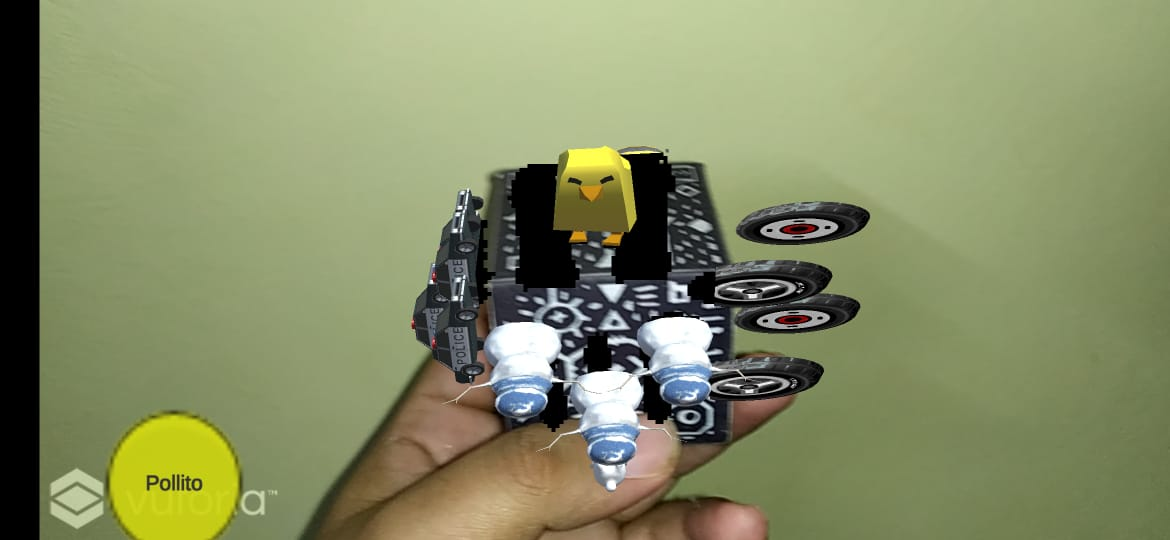
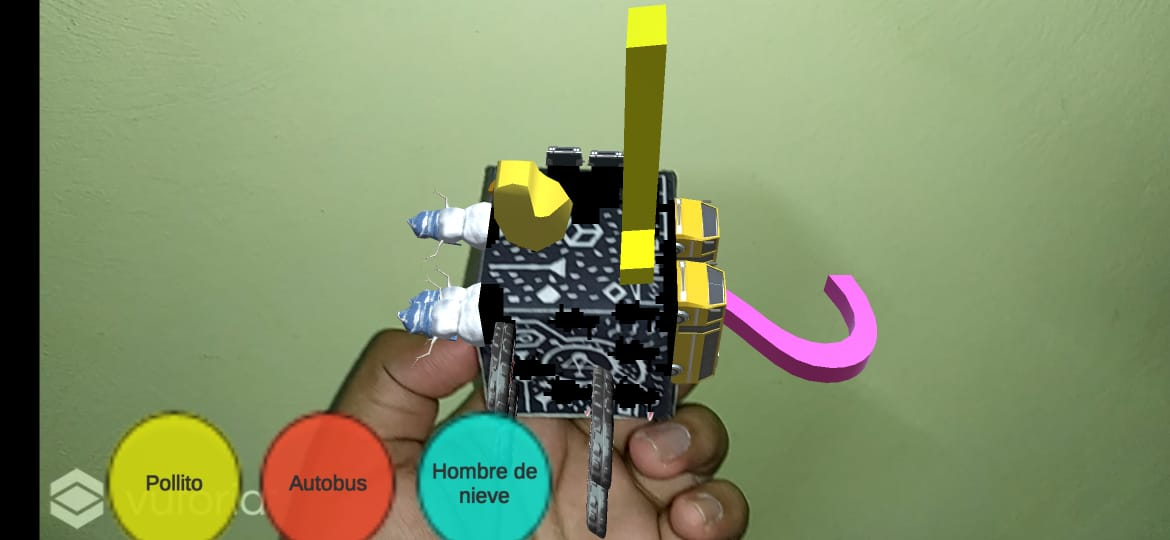
agregado numericube
gg

Changed region(s): [[0.2154, 0.0, 0.7692, 1.0]]

diff --git a/proyectos/numeriCube/index.html b/proyectos/numeriCube/index.html
@@ -112,21 +112,21 @@
 		<div id="fh5co-work">
 			<div class="row">
 				<div class="col-md-8">
-					<a href="/images/proyectos/scriptMCD/scriptMCD.png" class="image-popup img-portfolio-detail">
-						<img src="/images/proyectos/scriptMCD/scriptMCD.png" alt="Free HTML5 Template by FreeHTML5.co" class="img-responsive">
+					<a href="/images/proyectos/numeriCube/numericube1.jpeg" class="image-popup img-portfolio-detail">
+						<img src="/images/proyectos/numeriCube/numericube1.jpeg" alt="Free HTML5 Template by FreeHTML5.co" class="img-responsive">
 					</a>
-					<a href="/images/proyectos/scriptMCD/mcd2.png" class="image-popup img-portfolio-detail">
-						<img src="/images/proyectos/scriptMCD/mcd2.png" alt="Free HTML5 Template by FreeHTML5.co" class="img-responsive">
+					<a href="/images/proyectos/numeriCube/numericube2.jpeg" class="image-popup img-portfolio-detail">
+						<img src="/images/proyectos/numeriCube/numericube2.jpeg" alt="Free HTML5 Template by FreeHTML5.co" class="img-responsive">
 					</a>
-					<a href="/images/proyectos/scriptMCD/mcd3.png" class="image-popup img-portfolio-detail">
-						<img src="/images/proyectos/scriptMCD/mcd3.png" alt="Free HTML5 Template by FreeHTML5.co" class="img-responsive">
+					<a href="/images/proyectos/numeriCube/numericube3.jpeg" class="image-popup img-portfolio-detail">
+						<img src="/images/proyectos/numeriCube/numericube3.jpeg" alt="Free HTML5 Template by FreeHTML5.co" class="img-responsive">
 					</a>
 				</div>
 				<div class="col-md-4 fh5co-project-detail">
                     <div class="fh5co-project-service">
 
-                    <h1>ScriptMCD</h1>
-                    <span class=""><b>Estatus: </b> <b style="color:green;">Finalizado</b></span>
+                    <h1>NumeriCube</h1>
+                    <span class=""><b>Estatus: </b> <b style="color:red;">Abandonado</b></span>
 
                     </div>
 					
@@ -136,16 +136,17 @@
                         </h2>    
                     </div>
 					<h4>
-                        Este pequeño archivo desarrollado en javascript permite hacer un calculo preciso
-                         del maximo comun divisor entre dos cantidades proporcionadas
+                        Aplicación movil orientada a la enseñanza de niños de nivel primaria,
+                        su función esta basada en el uso de la realidad aumentada para mostrar modelos 3D
+                        en un cubo con el que los niños pudieran aprender los numeros basicos.
                     </h4>
 
 					<div class="fh5co-project-service">
                         <h2>Tecnologias:</h2>
                         <div style="margin-left: 15px;">
-                            <h3><i class="far fa-circle fa-xs"></i> Html</h3>
-                            <h3><i class="far fa-circle fa-xs"></i> Javascript</h3>
-                            <h3><i class="far fa-circle fa-xs"></i> css</h3>
+                            <h3><i class="far fa-circle fa-xs"></i> Unity</h3>
+                            <h3><i class="far fa-circle fa-xs"></i> C#</h3>
+                            <h3><i class="far fa-circle fa-xs"></i> Vuforia Engine</h3>
 
                         </div>
 
